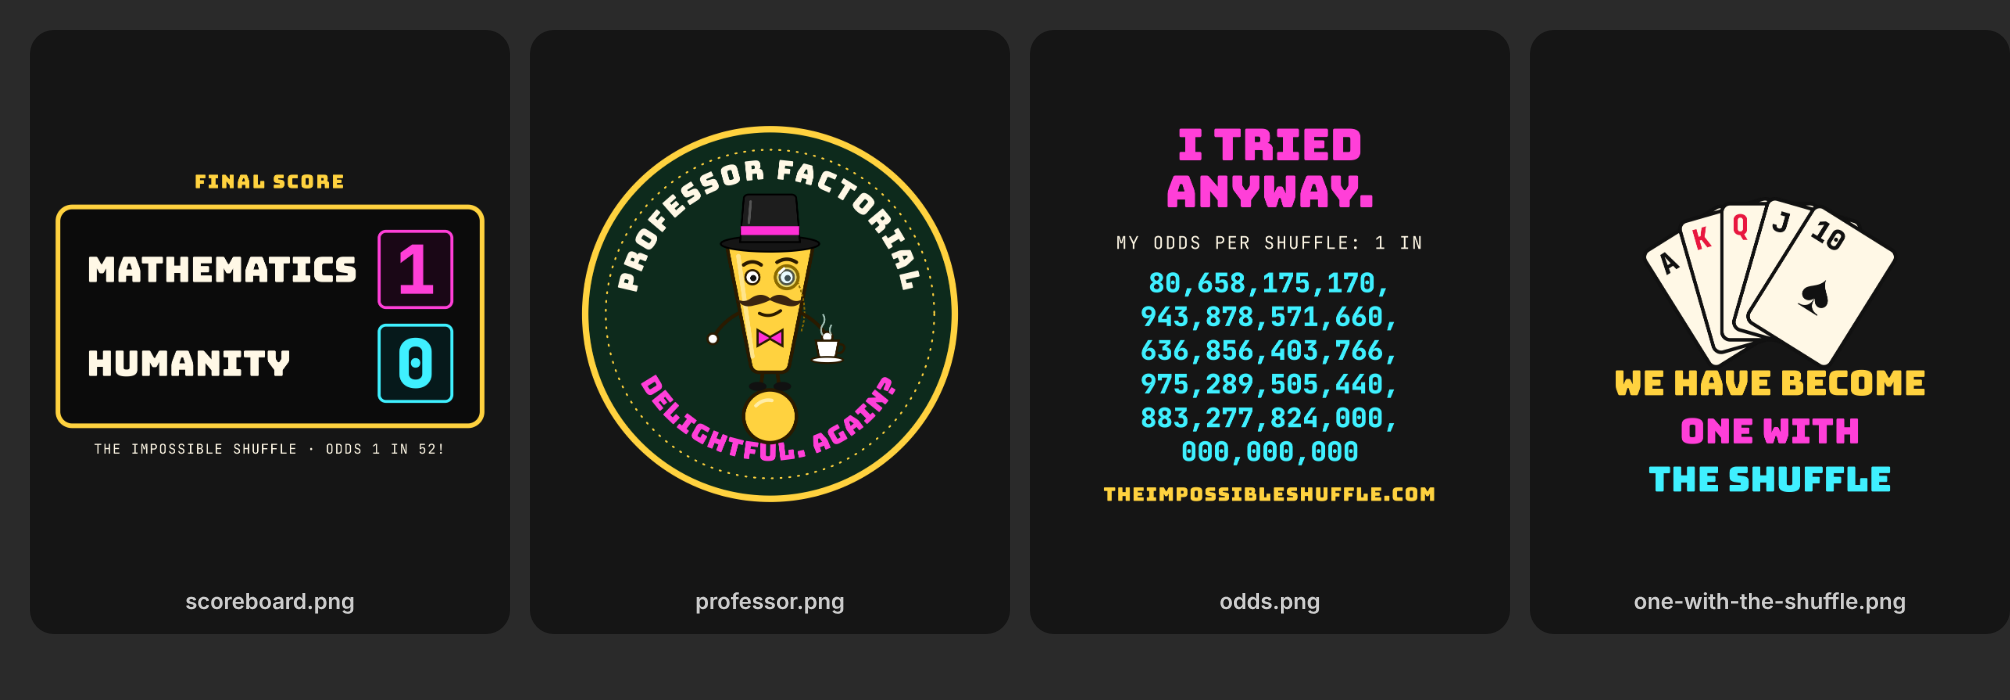
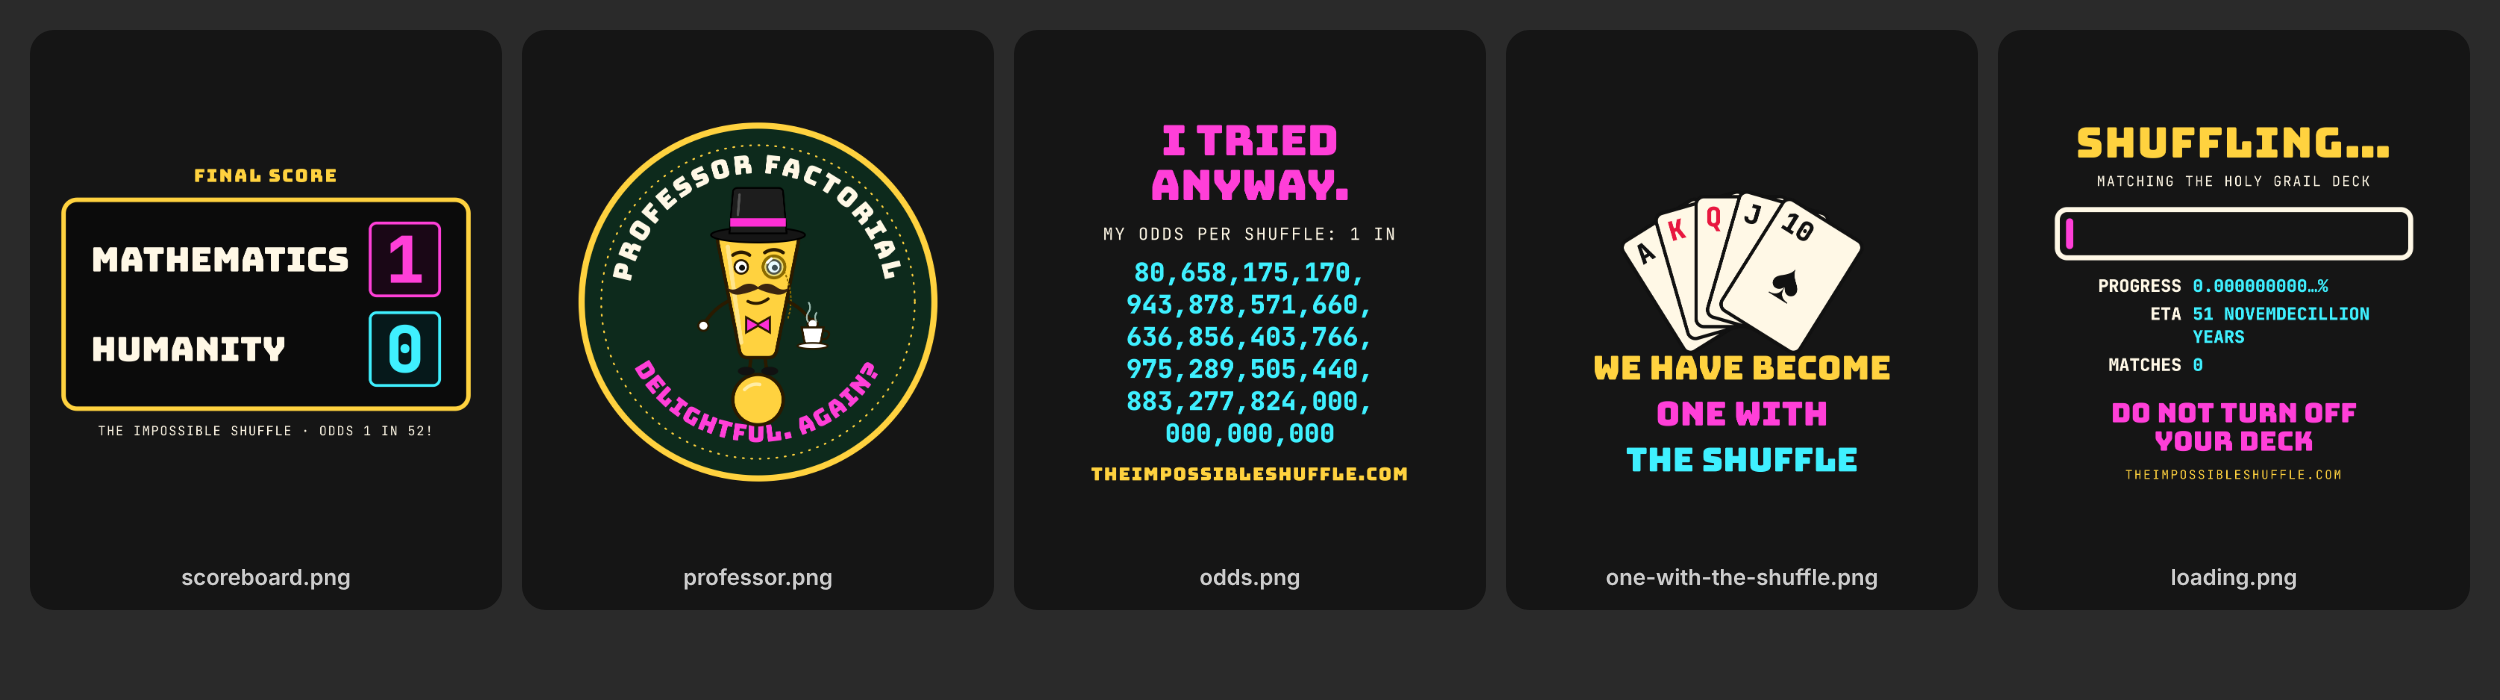
Add a fifth merch design: the loading screen
Claude-Session: https://claude.ai/code/session_01YJQDRu3Y672xQjHvmeDDE6

diff --git a/merch/README.md b/merch/README.md
@@ -8,7 +8,8 @@ Print-ready T-shirt designs for The Impossible Shuffle.
 | `professor.png` | Professor Factorial badge, "Delightful. Again?" |
 | `odds.png` | "I tried anyway." with the exact 68-digit odds |
 | `one-with-the-shuffle.png` | Card fan with "We have become one with the shuffle" |
-| `preview.png` | All four on a dark shirt colour, for a quick look |
+| `loading.png` | Loading screen: "Shuffling…", an empty progress bar, "ETA 51 novemdecillion years", "Do not turn off your deck" |
+| `preview.png` | All five on a dark shirt colour, for a quick look |
 
 - 4500 × 5400 px (15 × 18 in at 300 dpi), transparent background: the standard size for
   Printful, Spring, Redbubble and most print-on-demand shops.
